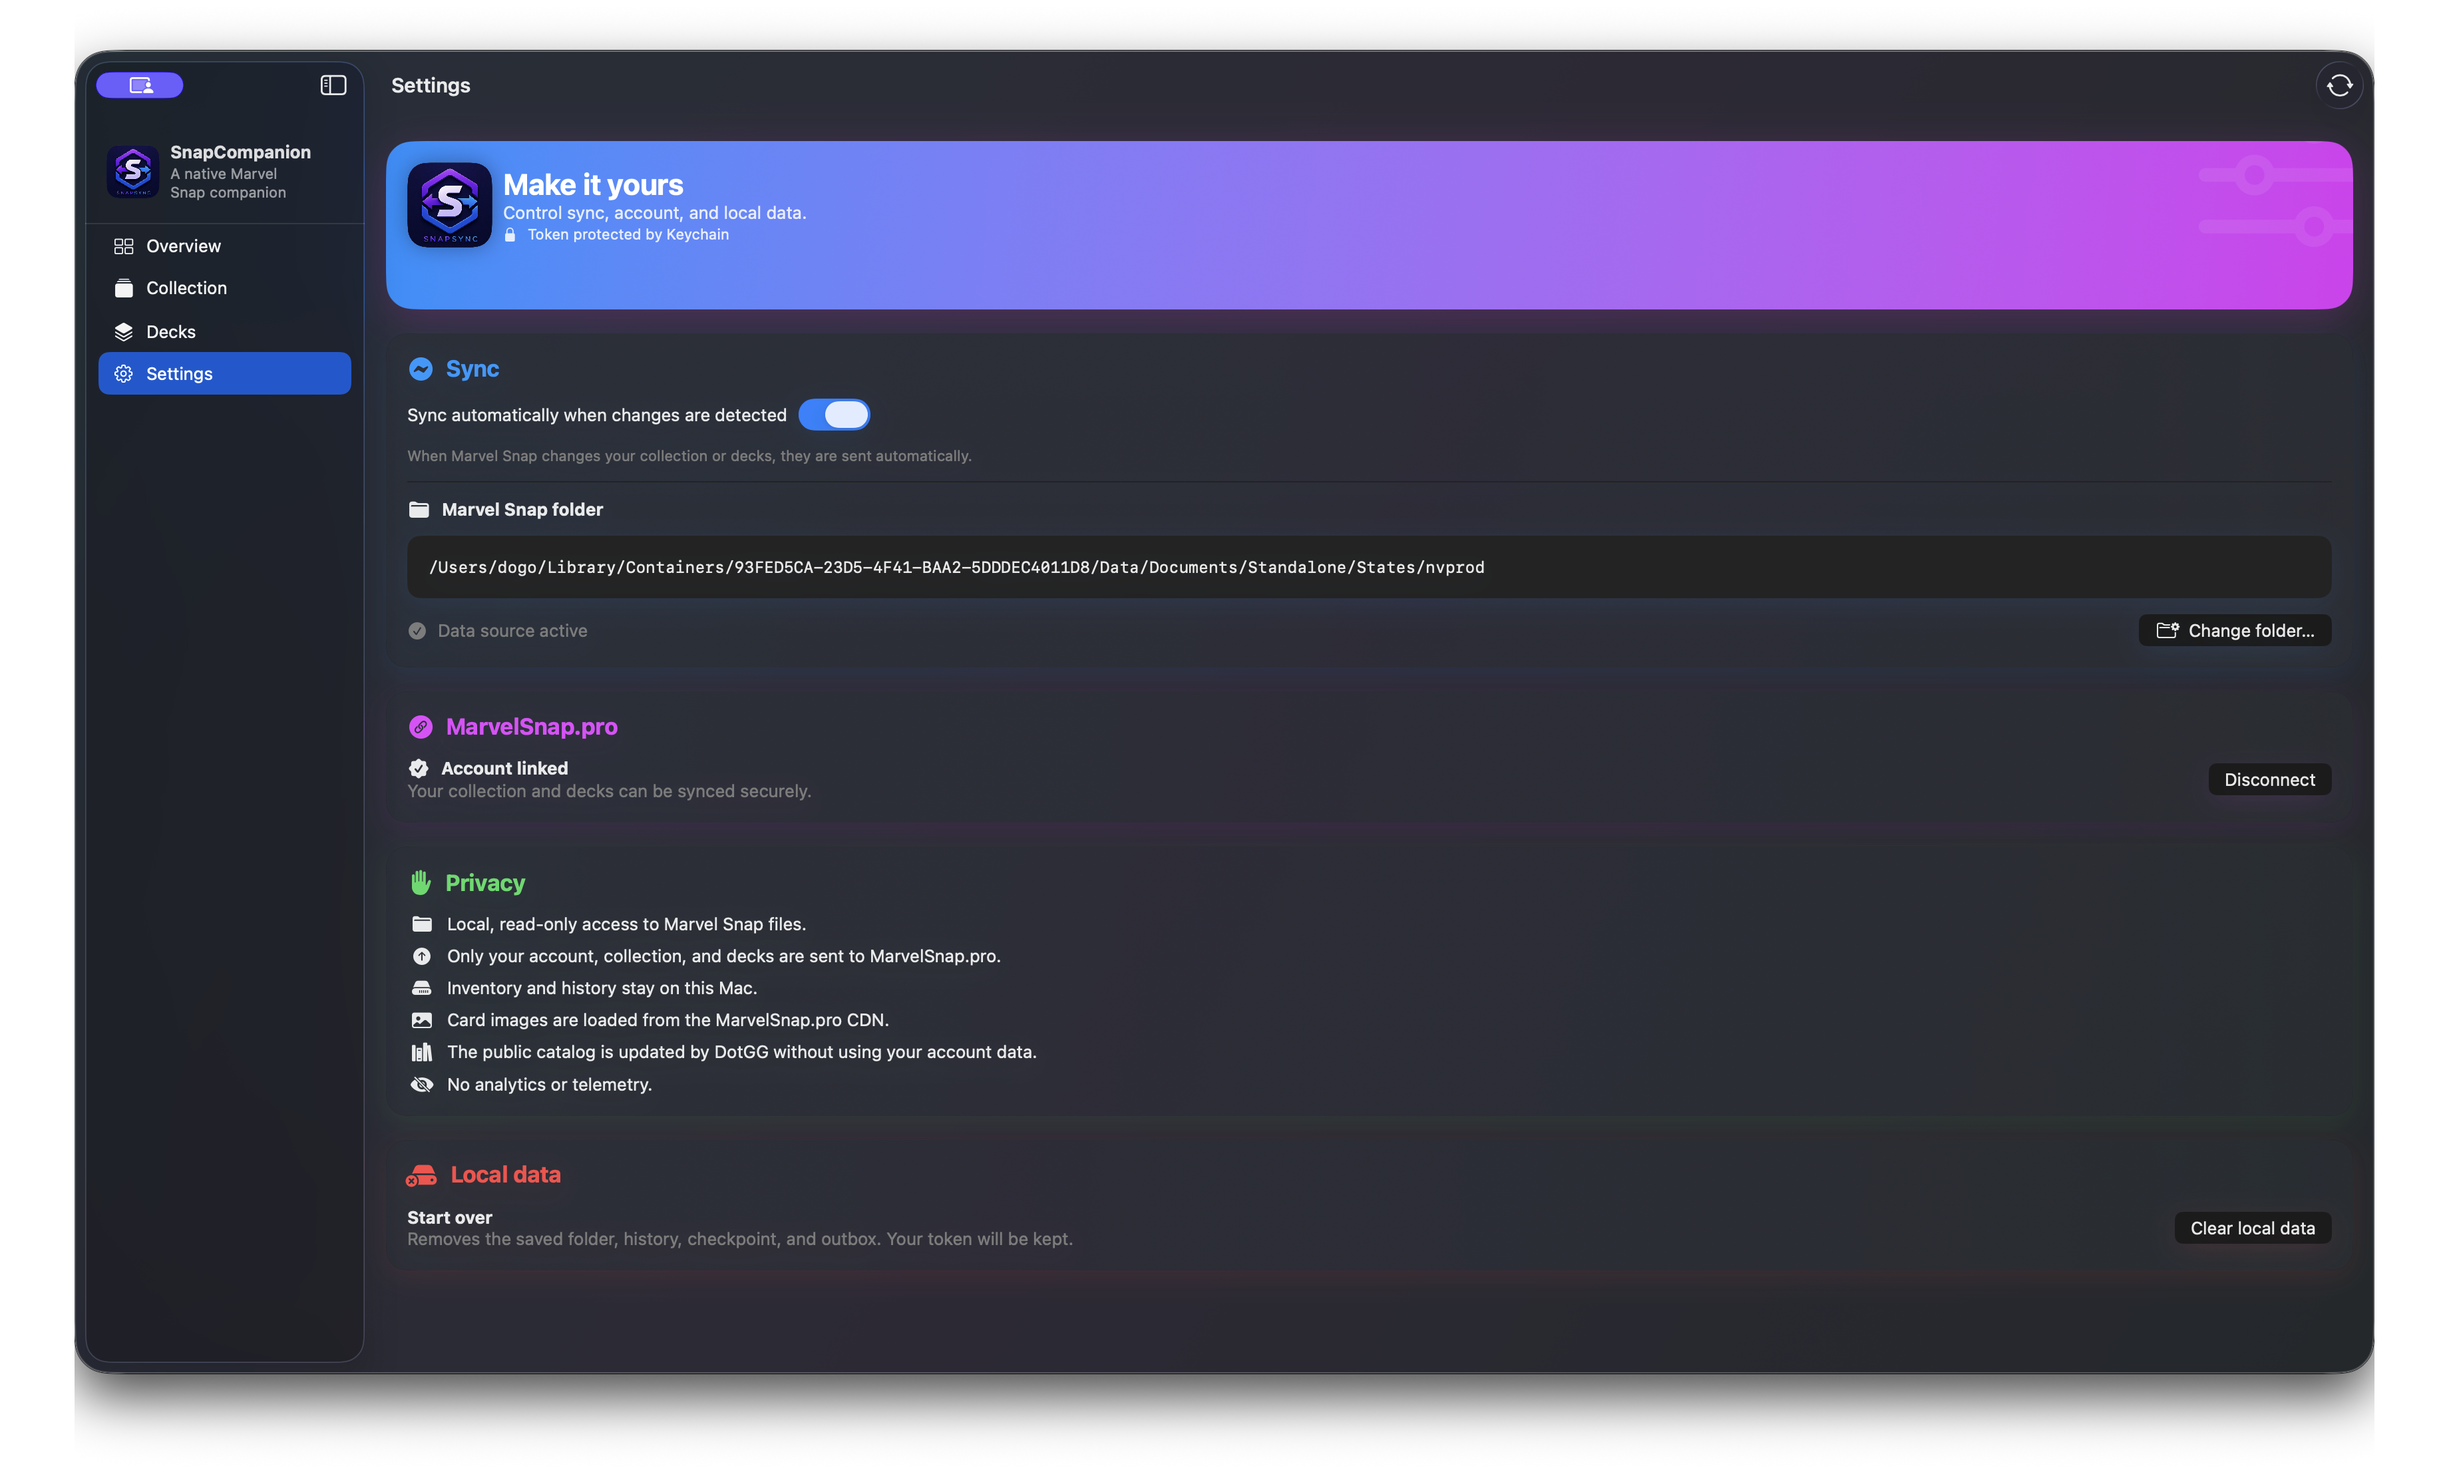
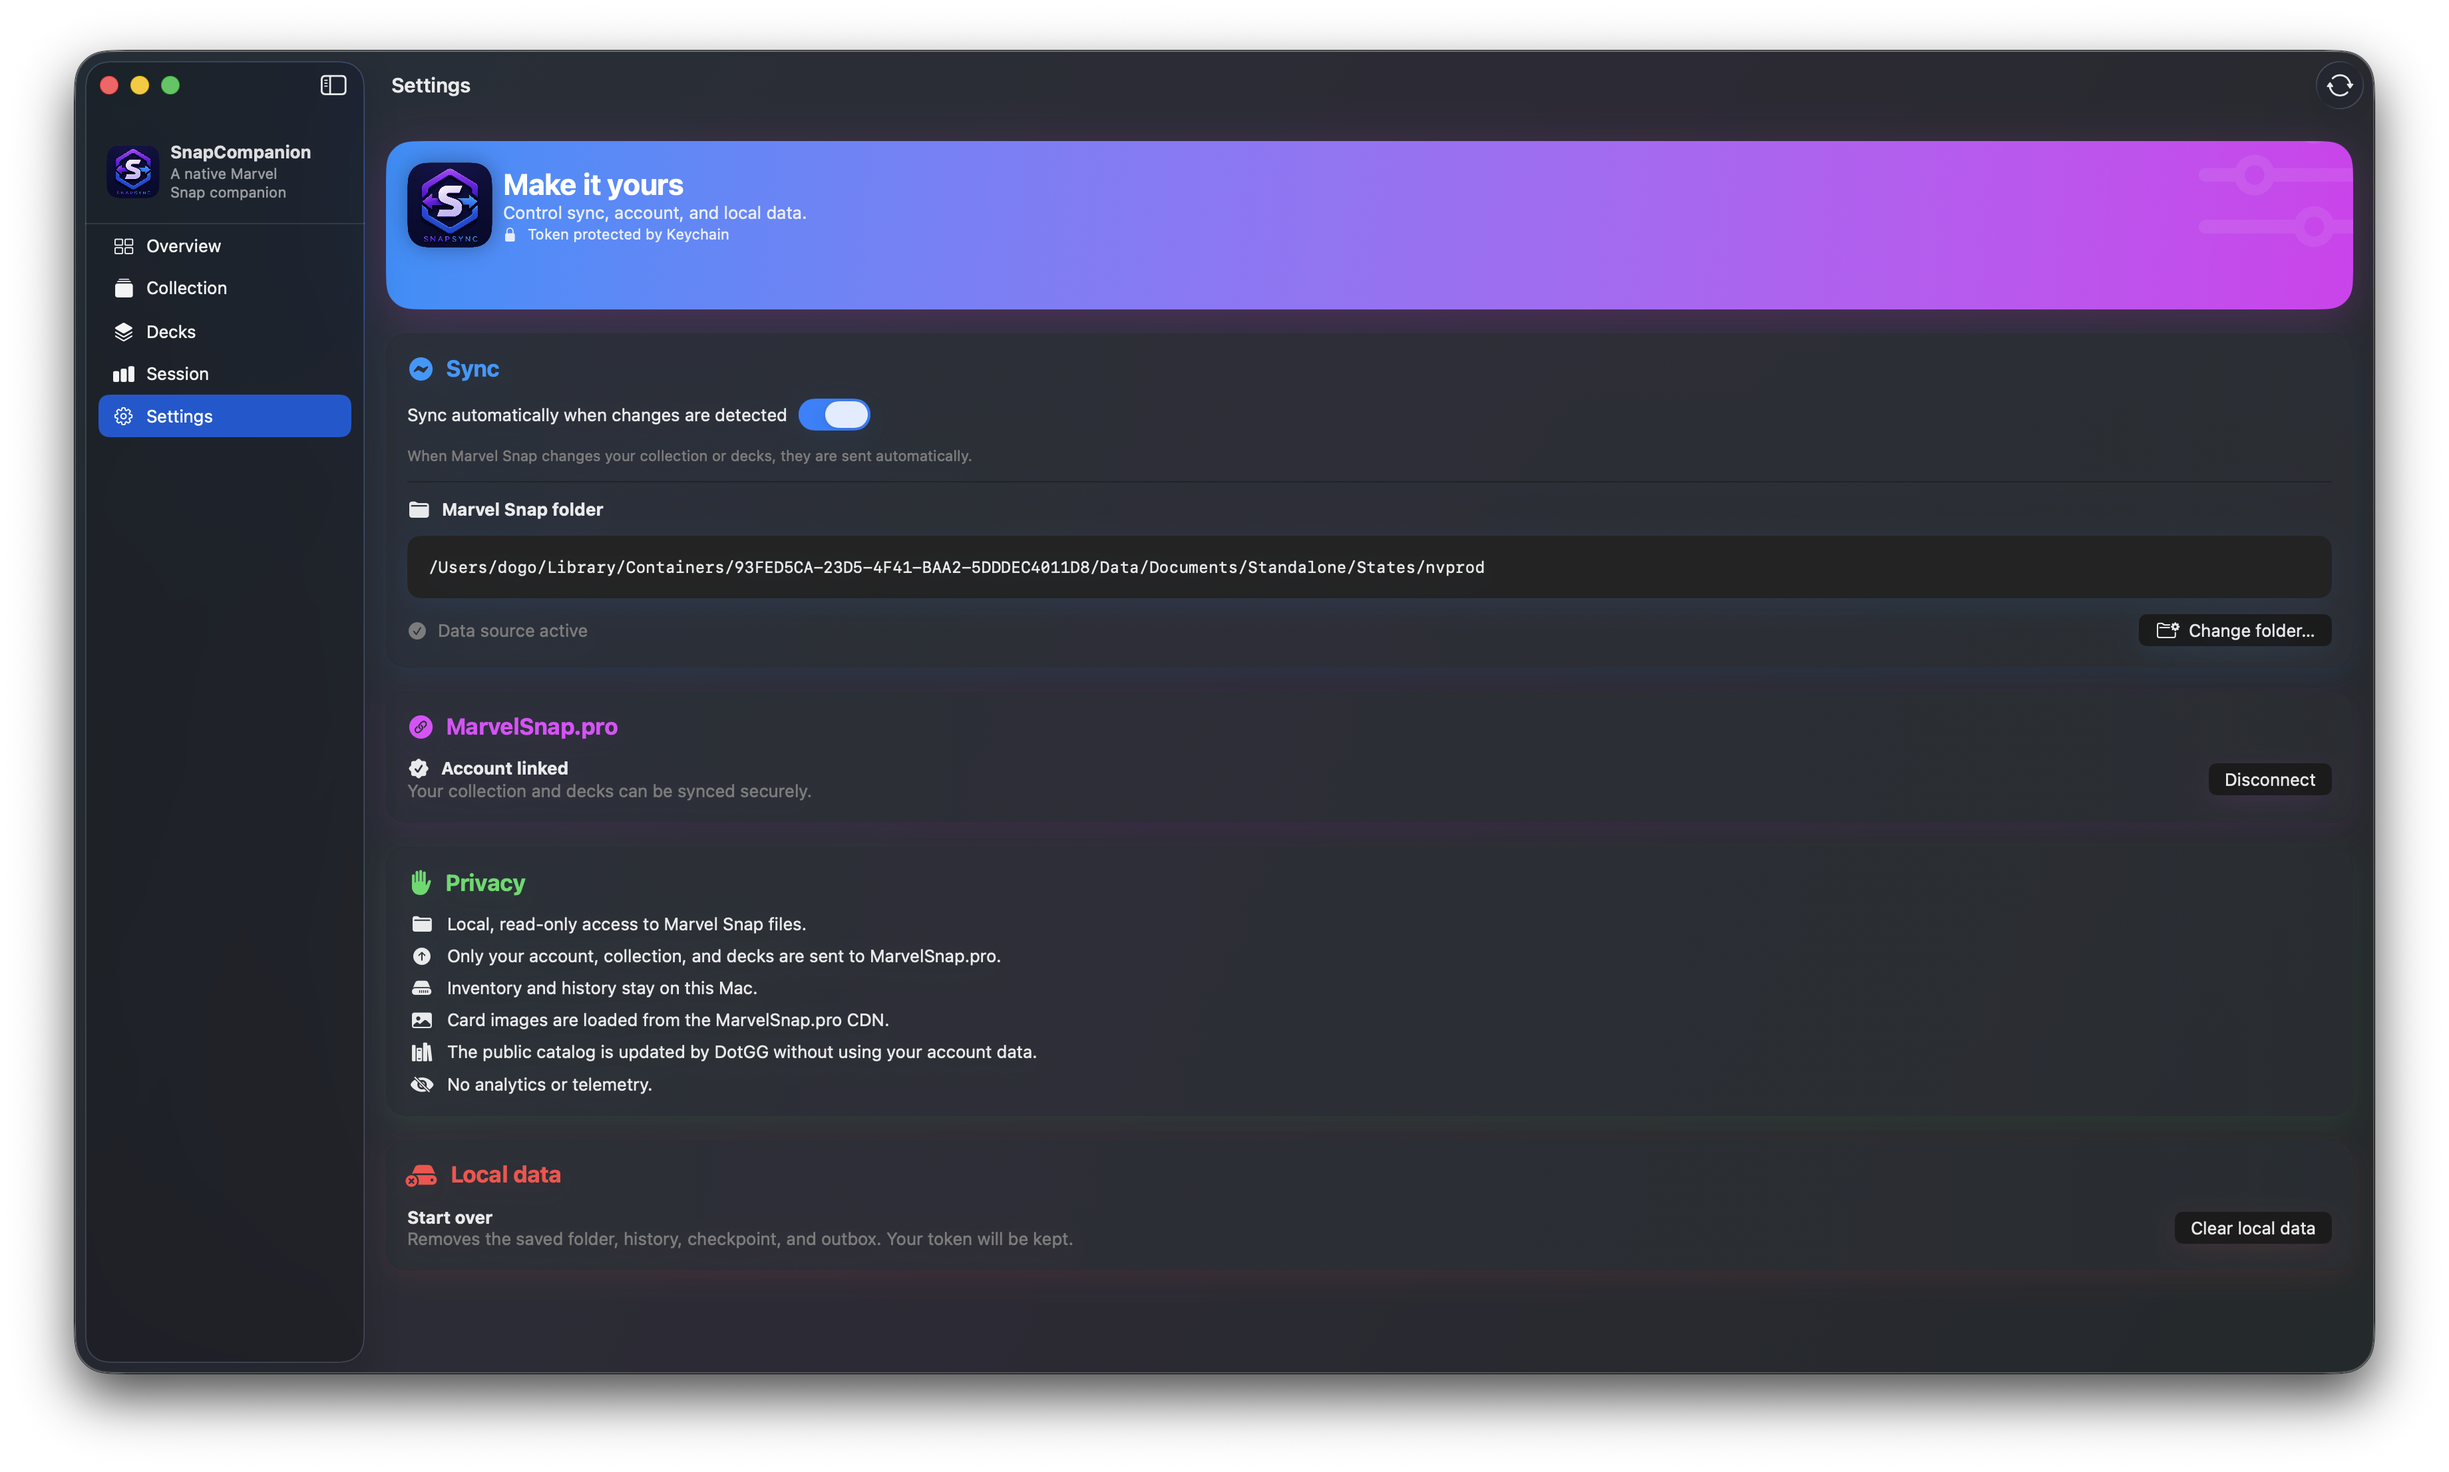
docs: refresh README screenshots, add overview and session views

Changed region(s): [[0.0, 0.0624, 0.1562, 0.967], [0.9688, 0.0624, 1.0, 0.967], [0.0312, 0.0312, 0.0938, 0.0624]]

diff --git a/README.md b/README.md
@@ -6,7 +6,11 @@ A native macOS companion for Marvel Snap. It reads your local game data to brows
 
 ## Screenshots
 
-![Overview with the live opponent overlay during a match](docs/screenshots/overlay.png)
+![Overview dashboard](docs/screenshots/overview.png)
+
+| Live opponent overlay | Session stats |
+|---|---|
+| ![Live opponent overlay during a match](docs/screenshots/overlay.png) | ![Per-deck session results](docs/screenshots/session.png) |
 
 | Collection | Decks |
 |---|---|
